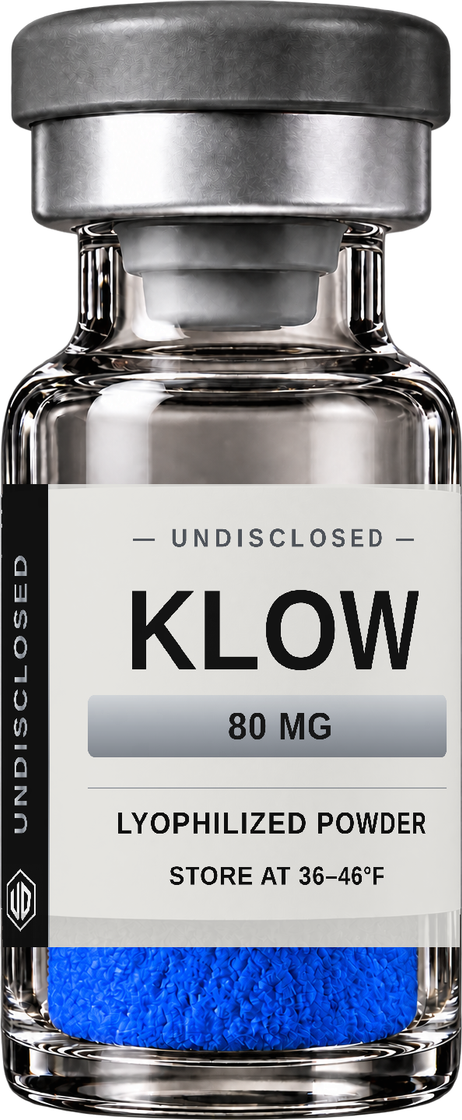
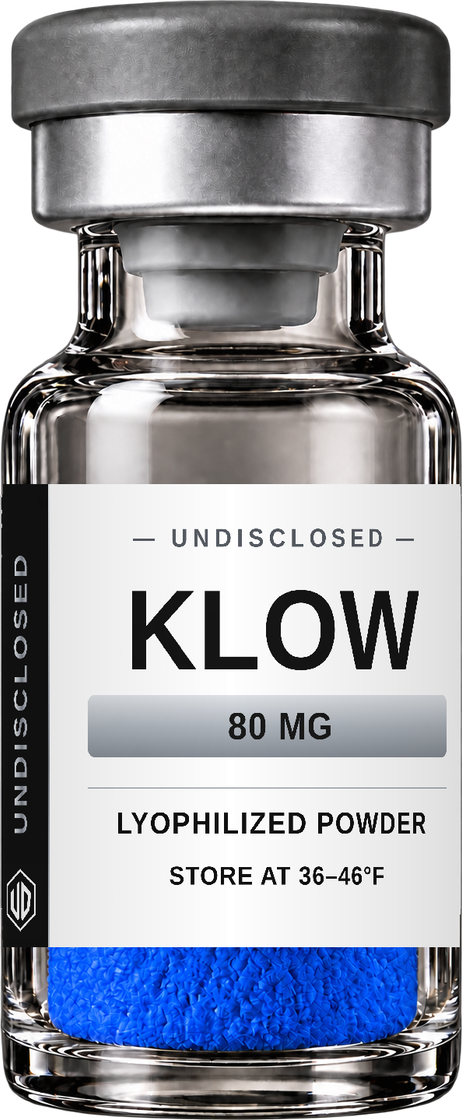
Labels: bright-white opaque paper so the color matches the vial (no gray)
Paint the label as a consistent opaque sticker (not a multiply that picked up
the vial's tone unevenly) and switch the paper from warm #f4f3ef to #ffffff, so
the label reads as clean bright white matching the powder/vial and the brought-
down bottom no longer looks light gray. Applied to the calculator vial and the
15 catalog images.

Claude-Session: https://claude.ai/code/session_01M8Qtf7wum7sU3ieHpRfW3u

diff --git a/src/utils/udVialComposite.js b/src/utils/udVialComposite.js
@@ -132,11 +132,10 @@ export function composeVial(canvas, prepared, rot = 0) {
     const lx = Math.round(uSrc * (lw - 1));
     const ly = Math.min(lh - 1, Math.round(((y - fp.top) / (fp.h - 1)) * (lh - 1)));
     const li = (ly * lw + lx) * 4;
-    const r = src[vi], g = src[vi + 1], b = src[vi + 2];
-    const baseB = 235 + (0.299 * r + 0.587 * g + 0.114 * b - 210) * 0.15;
-    out[vi] = clamp(baseB * (ld[li] / 255));
-    out[vi + 1] = clamp(baseB * (ld[li + 1] / 255));
-    out[vi + 2] = clamp(baseB * (ld[li + 2] / 255));
+    const shade = 1 - 0.13 * Math.abs(f); // gentle cylinder curvature only
+    out[vi] = clamp(ld[li] * shade);
+    out[vi + 1] = clamp(ld[li + 1] * shade);
+    out[vi + 2] = clamp(ld[li + 2] * shade);
   }
   // Extend the label's blank bottom edge (rail + paper) down toward the powder so no empty
   // glass strip shows — but STOP as soon as the row is the powder/liquid (textured or
@@ -160,11 +159,10 @@ export function composeVial(canvas, prepared, rot = 0) {
       const uSrc = Math.max(0, Math.min(1, uc + rot + half * f));
       const lx = Math.round(uSrc * (lw - 1));
       const li = ((lh - 1) * lw + lx) * 4;
-      const r = src[vi], g = src[vi + 1], b = src[vi + 2];
-      const baseB = 235 + (0.299 * r + 0.587 * g + 0.114 * b - 210) * 0.15;
-      out[vi] = clamp(baseB * (ld[li] / 255));
-      out[vi + 1] = clamp(baseB * (ld[li + 1] / 255));
-      out[vi + 2] = clamp(baseB * (ld[li + 2] / 255));
+      const shade = 1 - 0.13 * Math.abs(f);
+      out[vi] = clamp(ld[li] * shade);
+      out[vi + 1] = clamp(ld[li + 1] * shade);
+      out[vi + 2] = clamp(ld[li + 2] * shade);
     }
   }
   canvas.width = W; canvas.height = H;

diff --git a/src/utils/udSilverLabel.js b/src/utils/udSilverLabel.js
@@ -125,7 +125,7 @@ export function buildSilverLabelSVG(o = {}) {
     <linearGradient id="silver" x1="0" y1="0" x2="0" y2="1"><stop offset="0" stop-color="#eef1f3"/><stop offset="0.4" stop-color="#aab0b8"/><stop offset="0.6" stop-color="#7d838c"/><stop offset="1" stop-color="#c2c8ce"/></linearGradient>
     <linearGradient id="silverbar" x1="0" y1="0" x2="0" y2="1"><stop offset="0" stop-color="#dfe3e7"/><stop offset="0.5" stop-color="#aeb4bc"/><stop offset="1" stop-color="#878d95"/></linearGradient>
   </defs>
-  <rect x="0" y="0" width="${w}" height="${h}" fill="#f4f3ef"/>
+  <rect x="0" y="0" width="${w}" height="${h}" fill="#ffffff"/>
   <rect x="0" y="0" width="${band}" height="${h}" fill="#111"/>
   <rect x="${band}" y="0" width="4" height="${h}" fill="${A.line}"/>
   <text x="${band * 0.50}" y="${h * 0.455}" fill="${A.mark}" font-family="Arial, Helvetica, sans-serif" font-weight="700" font-size="${Math.min(h * 0.071, (h * 0.74) / (Math.max(6, BN.length) * 0.62))}" letter-spacing="${h * 0.009}" text-anchor="middle" dominant-baseline="central" transform="rotate(-90 ${band * 0.50} ${h * 0.455})">${esc(BN)}</text>
